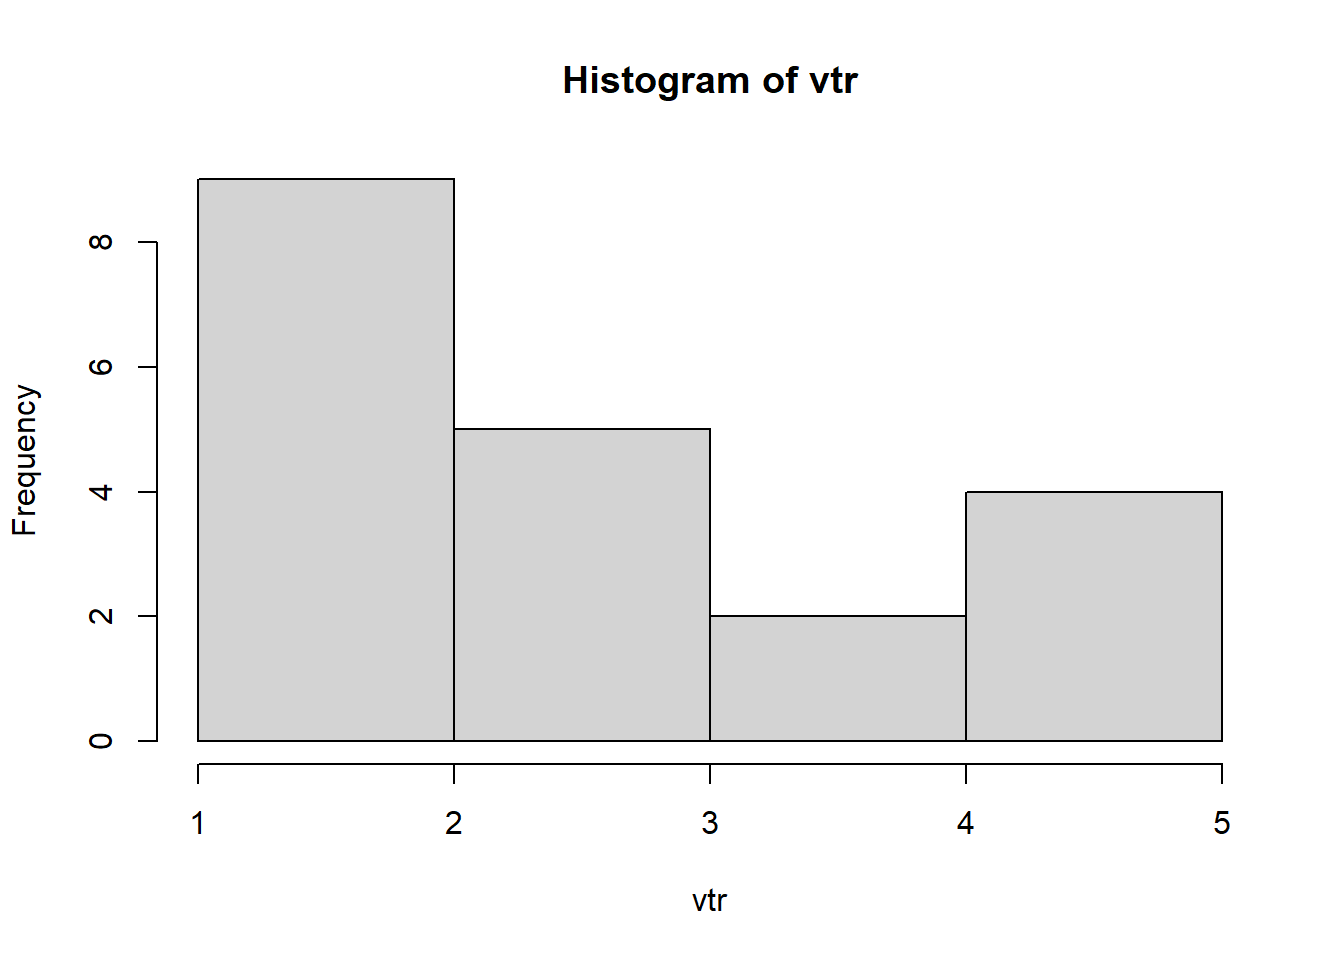
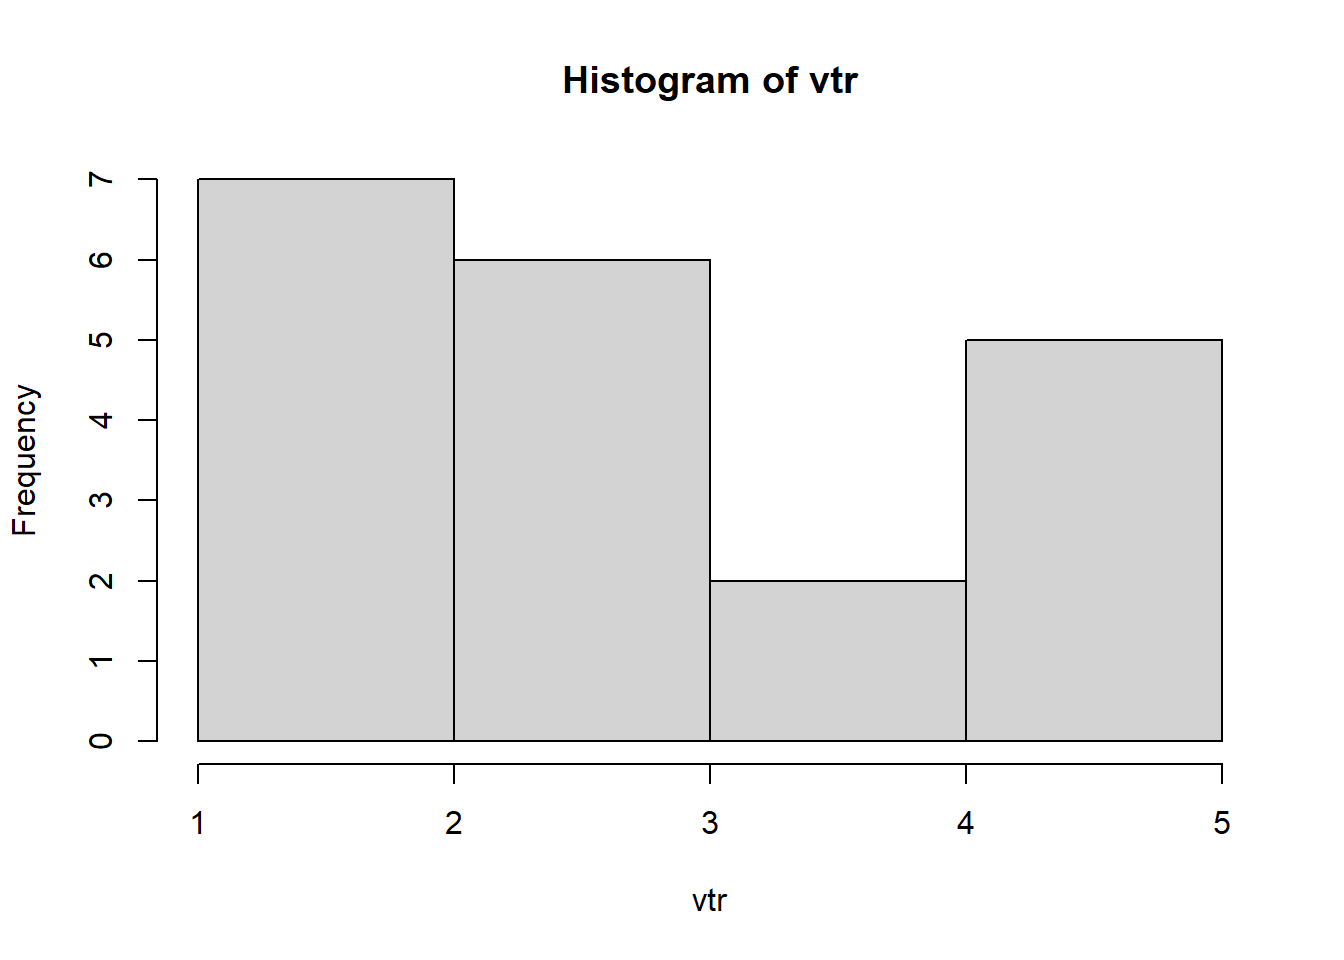
fx

diff --git a/index.html b/index.html
@@ -21,6 +21,69 @@ ul.task-list li input[type="checkbox"] {
   margin: 0 0.8em 0.2em -1.6em;
   vertical-align: middle;
 }
+pre > code.sourceCode { white-space: pre; position: relative; }
+pre > code.sourceCode > span { display: inline-block; line-height: 1.25; }
+pre > code.sourceCode > span:empty { height: 1.2em; }
+.sourceCode { overflow: visible; }
+code.sourceCode > span { color: inherit; text-decoration: inherit; }
+div.sourceCode { margin: 1em 0; }
+pre.sourceCode { margin: 0; }
+@media screen {
+div.sourceCode { overflow: auto; }
+}
+@media print {
+pre > code.sourceCode { white-space: pre-wrap; }
+pre > code.sourceCode > span { text-indent: -5em; padding-left: 5em; }
+}
+pre.numberSource code
+  { counter-reset: source-line 0; }
+pre.numberSource code > span
+  { position: relative; left: -4em; counter-increment: source-line; }
+pre.numberSource code > span > a:first-child::before
+  { content: counter(source-line);
+    position: relative; left: -1em; text-align: right; vertical-align: baseline;
+    border: none; display: inline-block;
+    -webkit-touch-callout: none; -webkit-user-select: none;
+    -khtml-user-select: none; -moz-user-select: none;
+    -ms-user-select: none; user-select: none;
+    padding: 0 4px; width: 4em;
+    color: #aaaaaa;
+  }
+pre.numberSource { margin-left: 3em; border-left: 1px solid #aaaaaa;  padding-left: 4px; }
+div.sourceCode
+  {   }
+@media screen {
+pre > code.sourceCode > span > a:first-child::before { text-decoration: underline; }
+}
+code span.al { color: #ff0000; font-weight: bold; } /* Alert */
+code span.an { color: #60a0b0; font-weight: bold; font-style: italic; } /* Annotation */
+code span.at { color: #7d9029; } /* Attribute */
+code span.bn { color: #40a070; } /* BaseN */
+code span.bu { color: #008000; } /* BuiltIn */
+code span.cf { color: #007020; font-weight: bold; } /* ControlFlow */
+code span.ch { color: #4070a0; } /* Char */
+code span.cn { color: #880000; } /* Constant */
+code span.co { color: #60a0b0; font-style: italic; } /* Comment */
+code span.cv { color: #60a0b0; font-weight: bold; font-style: italic; } /* CommentVar */
+code span.do { color: #ba2121; font-style: italic; } /* Documentation */
+code span.dt { color: #902000; } /* DataType */
+code span.dv { color: #40a070; } /* DecVal */
+code span.er { color: #ff0000; font-weight: bold; } /* Error */
+code span.ex { } /* Extension */
+code span.fl { color: #40a070; } /* Float */
+code span.fu { color: #06287e; } /* Function */
+code span.im { color: #008000; font-weight: bold; } /* Import */
+code span.in { color: #60a0b0; font-weight: bold; font-style: italic; } /* Information */
+code span.kw { color: #007020; font-weight: bold; } /* Keyword */
+code span.op { color: #666666; } /* Operator */
+code span.ot { color: #007020; } /* Other */
+code span.pp { color: #bc7a00; } /* Preprocessor */
+code span.sc { color: #4070a0; } /* SpecialChar */
+code span.ss { color: #bb6688; } /* SpecialString */
+code span.st { color: #4070a0; } /* String */
+code span.va { color: #19177c; } /* Variable */
+code span.vs { color: #4070a0; } /* VerbatimString */
+code span.wa { color: #60a0b0; font-weight: bold; font-style: italic; } /* Warning */
 </style>
 
 
@@ -294,15 +357,24 @@ ul.task-list li input[type="checkbox"] {
 
 </header>
 
-
+<p><img src="img/cover.png" title="Вступ до програмування в R" class="quarto-cover-image img-fluid"></p>
+<div style="float:left">
+<div class="quarto-figure quarto-figure-center">
+<figure class="figure">
+<p><a href="https://doi.org/10.5281/zenodo.7251419"><img src="https://zenodo.org/badge/DOI/10.5281/zenodo.7251419.svg" class="img-fluid figure-img"></a></p>
+<p></p><figcaption class="figure-caption">DOI</figcaption><p></p>
+</figure>
+</div>
+</div>
+<p><br></p>
 <section id="про-курс" class="level1 unnumbered">
-<p><img src="img/cover.png" title="Вступ до програмування в R" class="quarto-cover-image img-fluid"></p><h1 class="unnumbered">Про курс</h1>
+<h1 class="unnumbered">Про курс</h1>
 <p>Матеріали підготовлені для читання курсу <strong><em>“Вступ до прикладного програмування в R”</em></strong> <code>[05.250]</code> для студентів 1-го року навчання, спеціальності економічна кібернетика.</p>
 <section id="опис-навчальної-дисципліни" class="level2">
 <h2 class="anchored" data-anchor-id="опис-навчальної-дисципліни">Опис навчальної дисципліни</h2>
 <p>Навчальна дисципліна спрямована на вивчення основ практичного застосування популярної мови R для проведення статистичних досліджень в економіці.</p>
-<p>У процесі вивчення курсу розглядаються теми, що стосуються теоретичних основ та практичної реалізації алгоритмів завантаження, підготовки та обробки економічних даних.</p>
-<p>Місце навчальної дисципліни у підготовці здобувачів: програмні результати дисципліни використовуються під час вивчення таких навчальних дисциплін: “Алгоритми та структури даних”, “Аналіз даних в R”, “Прикладне математичне моделювання в R”. Закріплення на практиці здобутих програмних результатів відбувається під час проходження Навчальної практики з курсу «Економіко-математичне моделювання».</p>
+<p>У процесі вивчення курсу розглядаються теми, що стосуються теоретичних основ та практичної реалізації алгоритмів, завантаження, підготовки та обробки економічних даних.</p>
+<p>Місце навчальної дисципліни у підготовці здобувачів: програмні результати дисципліни використовуються під час вивчення таких навчальних дисциплін: “Алгоритми та структури даних”, “Аналіз даних в R”, “Прикладне математичне моделювання в R”. Закріплення на практиці здобутих програмних результатів відбувається під час проходження навчальної практики з курсу «Економіко-математичне моделювання».</p>
 </section>
 <section id="мета-дисципліни" class="level2">
 <h2 class="anchored" data-anchor-id="мета-дисципліни">Мета дисципліни</h2>
@@ -337,6 +409,16 @@ ul.task-list li input[type="checkbox"] {
 </div>
 </div>
 </div>
+<hr>
+<p>Бібілографічний опис <code>bibtex</code>:</p>
+<div class="sourceCode" id="cb1"><pre class="sourceCode bibtex code-with-copy"><code class="sourceCode bibtex"><span id="cb1-1"><a href="#cb1-1" aria-hidden="true" tabindex="-1"></a><span class="va">@book</span>{<span class="ot">yk</span>-<span class="ot">r</span>-<span class="ot">intro</span>,</span>
+<span id="cb1-2"><a href="#cb1-2" aria-hidden="true" tabindex="-1"></a>  <span class="dt">author</span>       = {Юрій Клебан},</span>
+<span id="cb1-3"><a href="#cb1-3" aria-hidden="true" tabindex="-1"></a>  <span class="dt">title</span>        = {Вступ до програмування в R},</span>
+<span id="cb1-4"><a href="#cb1-4" aria-hidden="true" tabindex="-1"></a>  <span class="dt">publisher</span>    = {Zenodo},</span>
+<span id="cb1-5"><a href="#cb1-5" aria-hidden="true" tabindex="-1"></a>  <span class="dt">year</span>         = 2022,</span>
+<span id="cb1-6"><a href="#cb1-6" aria-hidden="true" tabindex="-1"></a>  <span class="dt">doi</span>          = {10.5281/zenodo.7251419},</span>
+<span id="cb1-7"><a href="#cb1-7" aria-hidden="true" tabindex="-1"></a>  <span class="dt">url</span>          = {https://doi.org/10.5281/zenodo.7251419}</span>
+<span id="cb1-8"><a href="#cb1-8" aria-hidden="true" tabindex="-1"></a>}</span></code><button title="Copy to Clipboard" class="code-copy-button"><i class="bi"></i></button></pre></div>
 
 
 </section>

diff --git a/10-userful-math.html b/10-userful-math.html
@@ -458,17 +458,17 @@ code span.wa { color: #60a0b0; font-weight: bold; font-style: italic; } /* Warni
 <div class="cell">
 <div class="sourceCode cell-code" id="cb35"><pre class="sourceCode numberSource r number-lines code-with-copy"><code class="sourceCode r"><span id="cb35-1"><a href="#cb35-1"></a><span class="fu">runif</span>(<span class="dv">10</span>)</span></code><button title="Copy to Clipboard" class="code-copy-button"><i class="bi"></i></button></pre></div>
 <div class="cell-output cell-output-stdout">
-<pre><code> [1] 0.4642463 0.7058466 0.6145815 0.8878456 0.8085610 0.6179304 0.8879577
- [8] 0.9420331 0.3662401 0.7254885</code></pre>
+<pre><code> [1] 0.5447672 0.4964436 0.2865723 0.4506354 0.8279097 0.3988388 0.2540664
+ [8] 0.2935680 0.1799244 0.8794263</code></pre>
 </div>
 <div class="sourceCode cell-code" id="cb37"><pre class="sourceCode numberSource r number-lines code-with-copy"><code class="sourceCode r"><span id="cb37-1"><a href="#cb37-1"></a><span class="fu">sample</span>(<span class="dv">100</span>)</span></code><button title="Copy to Clipboard" class="code-copy-button"><i class="bi"></i></button></pre></div>
 <div class="cell-output cell-output-stdout">
-<pre><code>  [1]  97  91  86  92  12  28  60  82  15  34  37  75  44  43  52  21  76  58
- [19]  85  30  10  40  17  96  42  19  20  68  23  57  80  94  81  46   9  64
- [37]  47  13  31  70  84  99  55  38   2  11  35  16   4  53   3  73  78  26
- [55]  22  48  36  67  56  98  25   8  33  39  41  18  32   1  62  87 100   6
- [73]  77  72  51  45  29  27  93  66  69  95  61  88  50   5  79  65  71   7
- [91]  83  24  54  59  90  89  49  14  63  74</code></pre>
+<pre><code>  [1]  37  38  47  16  74  73   3  18  56  92  75  84  85  70  94  27  22  88
+ [19]  29  46  54  48  87  83  65  51  76  67  61  14   4  36  12  23   9  63
+ [37] 100  33  19  80   5  42   7  15  66  20  57  89  39  96  97  10  26  52
+ [55]  95   1  55  40  31  81  77  50  24  79  68  62  82  45  98  59  58  11
+ [73]  72  35  25   2  41  60  44  93  90   6  28  49  64  34  32  21  71  17
+ [91]  99   8  53  91  43  78  30  69  86  13</code></pre>
 </div>
 </div>
 </section><section id="chapter244" class="level3" data-number="10.1.3"><h3 data-number="10.1.3" class="anchored" data-anchor-id="chapter244">

diff --git a/03-r-environment.html b/03-r-environment.html
@@ -670,7 +670,7 @@ Note
 <div class="sourceCode cell-code" id="cb21"><pre class="sourceCode numberSource r number-lines code-with-copy"><code class="sourceCode r"><span id="cb21-1"><a href="#cb21-1"></a>vtr <span class="ot">&lt;-</span> <span class="fu">sample</span>(<span class="dv">1</span><span class="sc">:</span><span class="dv">5</span>, <span class="dv">20</span>, <span class="at">replace=</span><span class="cn">TRUE</span>)</span>
 <span id="cb21-2"><a href="#cb21-2"></a>vtr</span></code><button title="Copy to Clipboard" class="code-copy-button"><i class="bi"></i></button></pre></div>
 <div class="cell-output cell-output-stdout">
-<pre><code> [1] 2 4 1 3 3 5 2 4 2 5 1 5 3 3 3 1 2 5 2 1</code></pre>
+<pre><code> [1] 1 5 5 3 5 3 1 3 2 5 1 2 2 3 4 5 4 3 1 3</code></pre>
 </div>
 </div>
 <div class="callout-important callout callout-style-default callout-captioned">
@@ -693,11 +693,11 @@ Important
 <span id="cb23-3"><a href="#cb23-3"></a></span>
 <span id="cb23-4"><a href="#cb23-4"></a><span class="fu">print</span>(<span class="fu">paste0</span>(<span class="st">"Sum: "</span>, vtr_sum))</span></code><button title="Copy to Clipboard" class="code-copy-button"><i class="bi"></i></button></pre></div>
 <div class="cell-output cell-output-stdout">
-<pre><code>[1] "Sum: 57"</code></pre>
+<pre><code>[1] "Sum: 61"</code></pre>
 </div>
 <div class="sourceCode cell-code" id="cb25"><pre class="sourceCode numberSource r number-lines code-with-copy"><code class="sourceCode r"><span id="cb25-1"><a href="#cb25-1"></a><span class="fu">print</span>(<span class="fu">paste0</span>(<span class="st">"Mean: "</span>, vtr_mean))</span></code><button title="Copy to Clipboard" class="code-copy-button"><i class="bi"></i></button></pre></div>
 <div class="cell-output cell-output-stdout">
-<pre><code>[1] "Mean: 2.85"</code></pre>
+<pre><code>[1] "Mean: 3.05"</code></pre>
 </div>
 </div>
 <p>Виведемо гістограму:</p>
